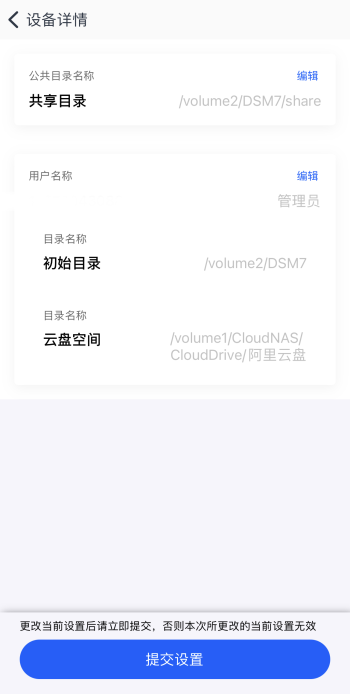
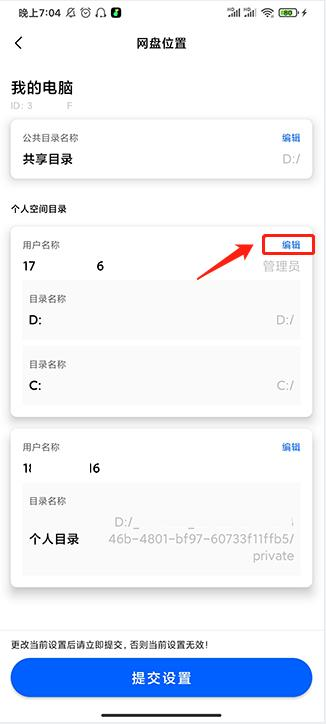
commit all

diff --git a/docs/zh/guide/linkease/function/directory_manager.md b/docs/zh/guide/linkease/function/directory_manager.md
@@ -4,9 +4,27 @@
 - 易有云App首页【我的网盘】—— 在要管理目录的网盘右上角【更多选项】—— 【设备管理】；
 
 ![jpg](./image/directory_manager/1.jpg)
+
 - 点击【网盘位置】；
+
 ![jpg](./image/directory_manager/2.jpg)
 
-**2.进入目录管理页面，在此页面可进行目录相关“编辑”，编辑好提交设置即可。**
+- 找到个人空间目录，点击【编辑】；
 
 ![jpg](./image/directory_manager/3.jpg)
+
+- 点击【添加目录】；
+
+![jpg](./image/directory_manager/4.jpg)
+
+- 输入目录名称，选择目录路径；
+
+![jpg](./image/directory_manager/5.jpg)
+
+- 点击【提交设置】；
+
+![jpg](./image/directory_manager/6.jpg)
+
+- 回到首页可以看到目录管理下面多了一个刚刚设置好的文件；
+
+![jpg](./image/directory_manager/7.jpg)
